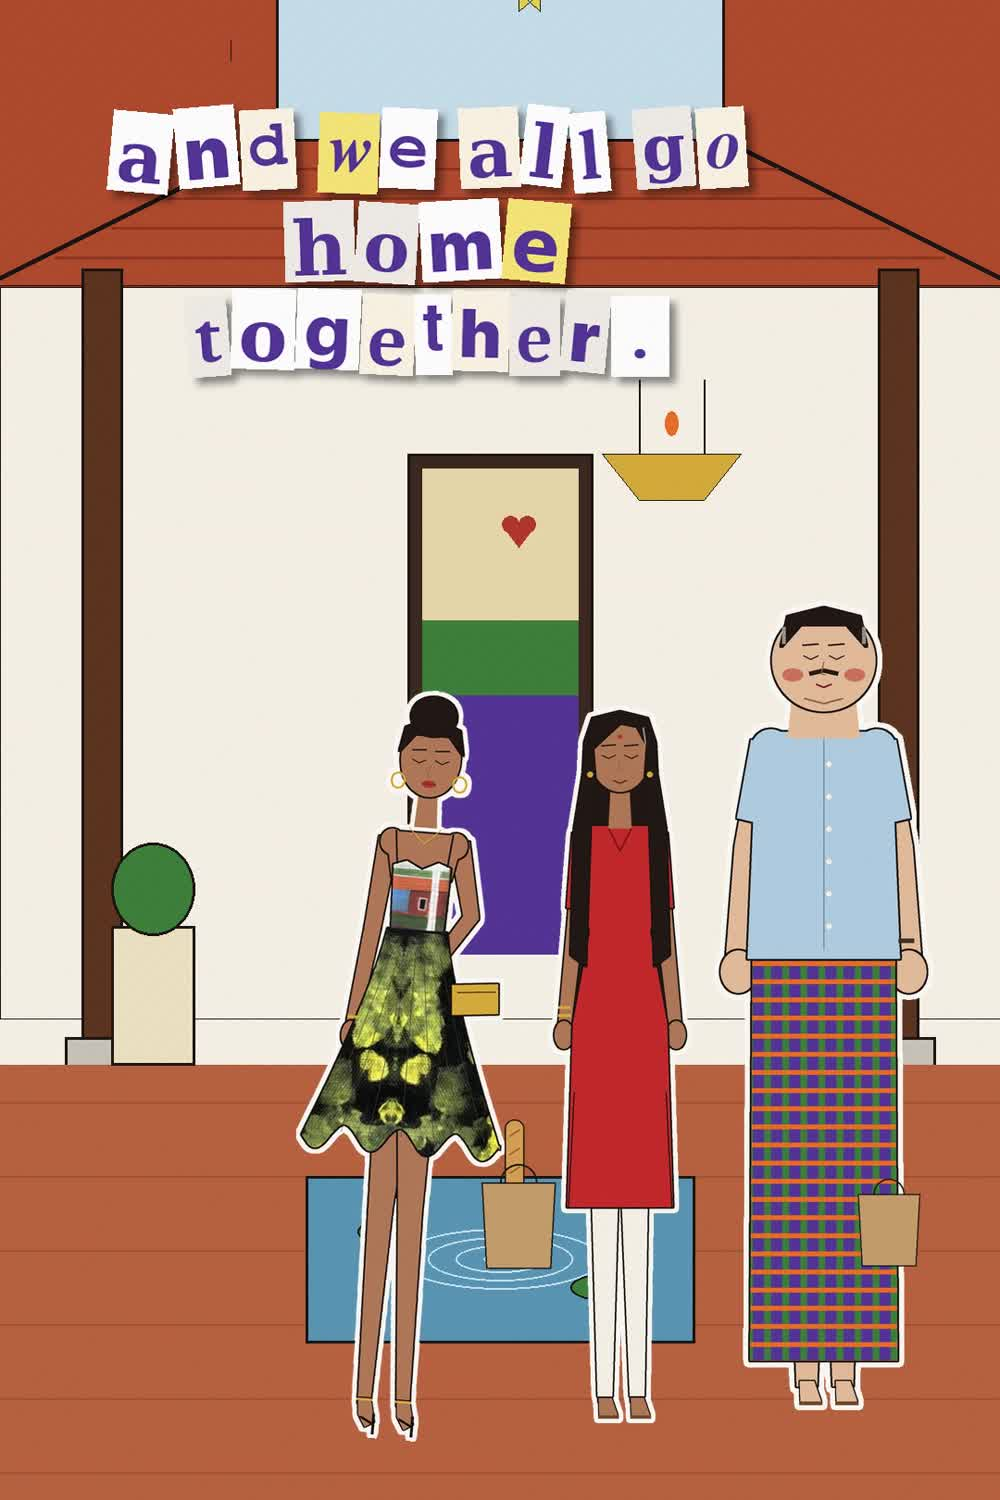
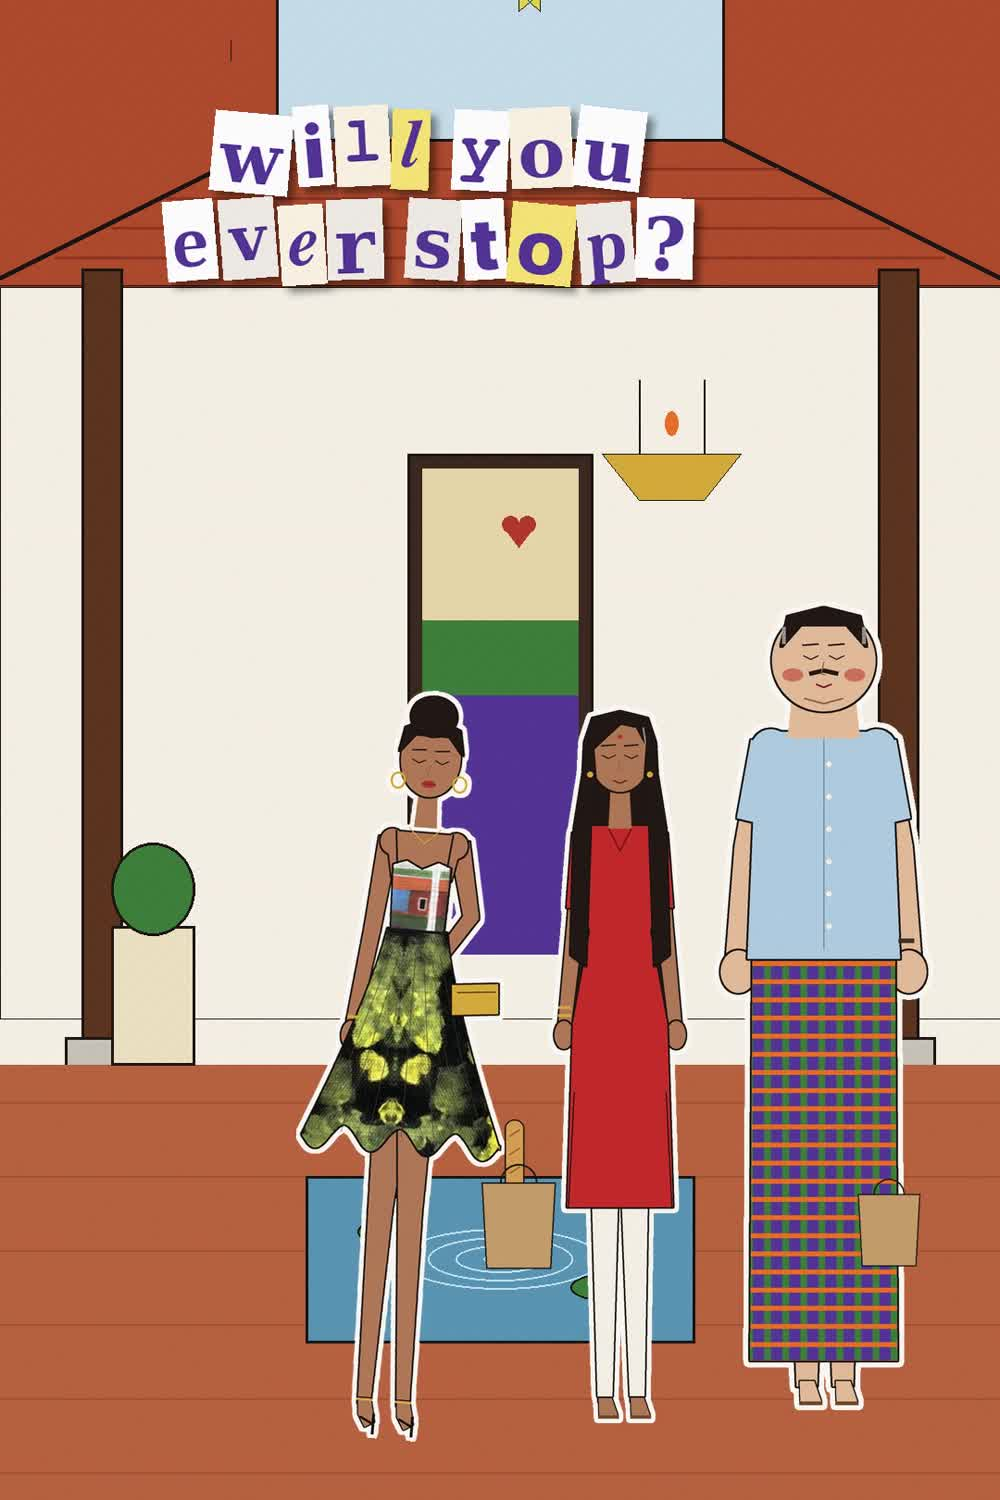
Reel 4: far-away-land book lines
Claude-Session: https://claude.ai/code/session_019PesBvg4SEFhUJP6SN77P7

Changed region(s): [[0.093, 0.0613, 0.775, 0.276]]

diff --git a/reel4/render.py b/reel4/render.py
@@ -393,9 +393,9 @@ PAINT = Image.open("reverie.jpg").convert("RGB")
 
 # ---------------------------------------------------------------- text
 # every line copied word for word from the book, in story order
-CARDS = [(0.3, 3.2, "we soar high into our imaginations", PURP), (3.6, 7.9, "We have sailed so far", PURP),
-         (8.4, 13.7, "we want to run home,", RED), (14.1, 17.2, "wherever it may be.", PURP),
-         (18.0, 23.3, "and we all go home together.", PURP)]
+CARDS = [(0.3, 3.2, "We build them.", PURP), (3.6, 7.9, "everything that you have built,", PURP),
+         (8.4, 13.7, "all the kindness and love", RED), (14.1, 17.2, "has made a place in a far away land", PURP),
+         (18.0, 23.3, "will you ever stop?", PURP)]
 os.chdir(R2)
 CARD_IMG = [lib.ransom(s, ink, size=74, seed=i * 5 + 3, max_w=720) for i, (_, _, s, ink) in enumerate(CARDS)]
 END_TXT = lib.ransom("Wear art, not a logo.", PURP, size=74, seed=41, max_w=720)
